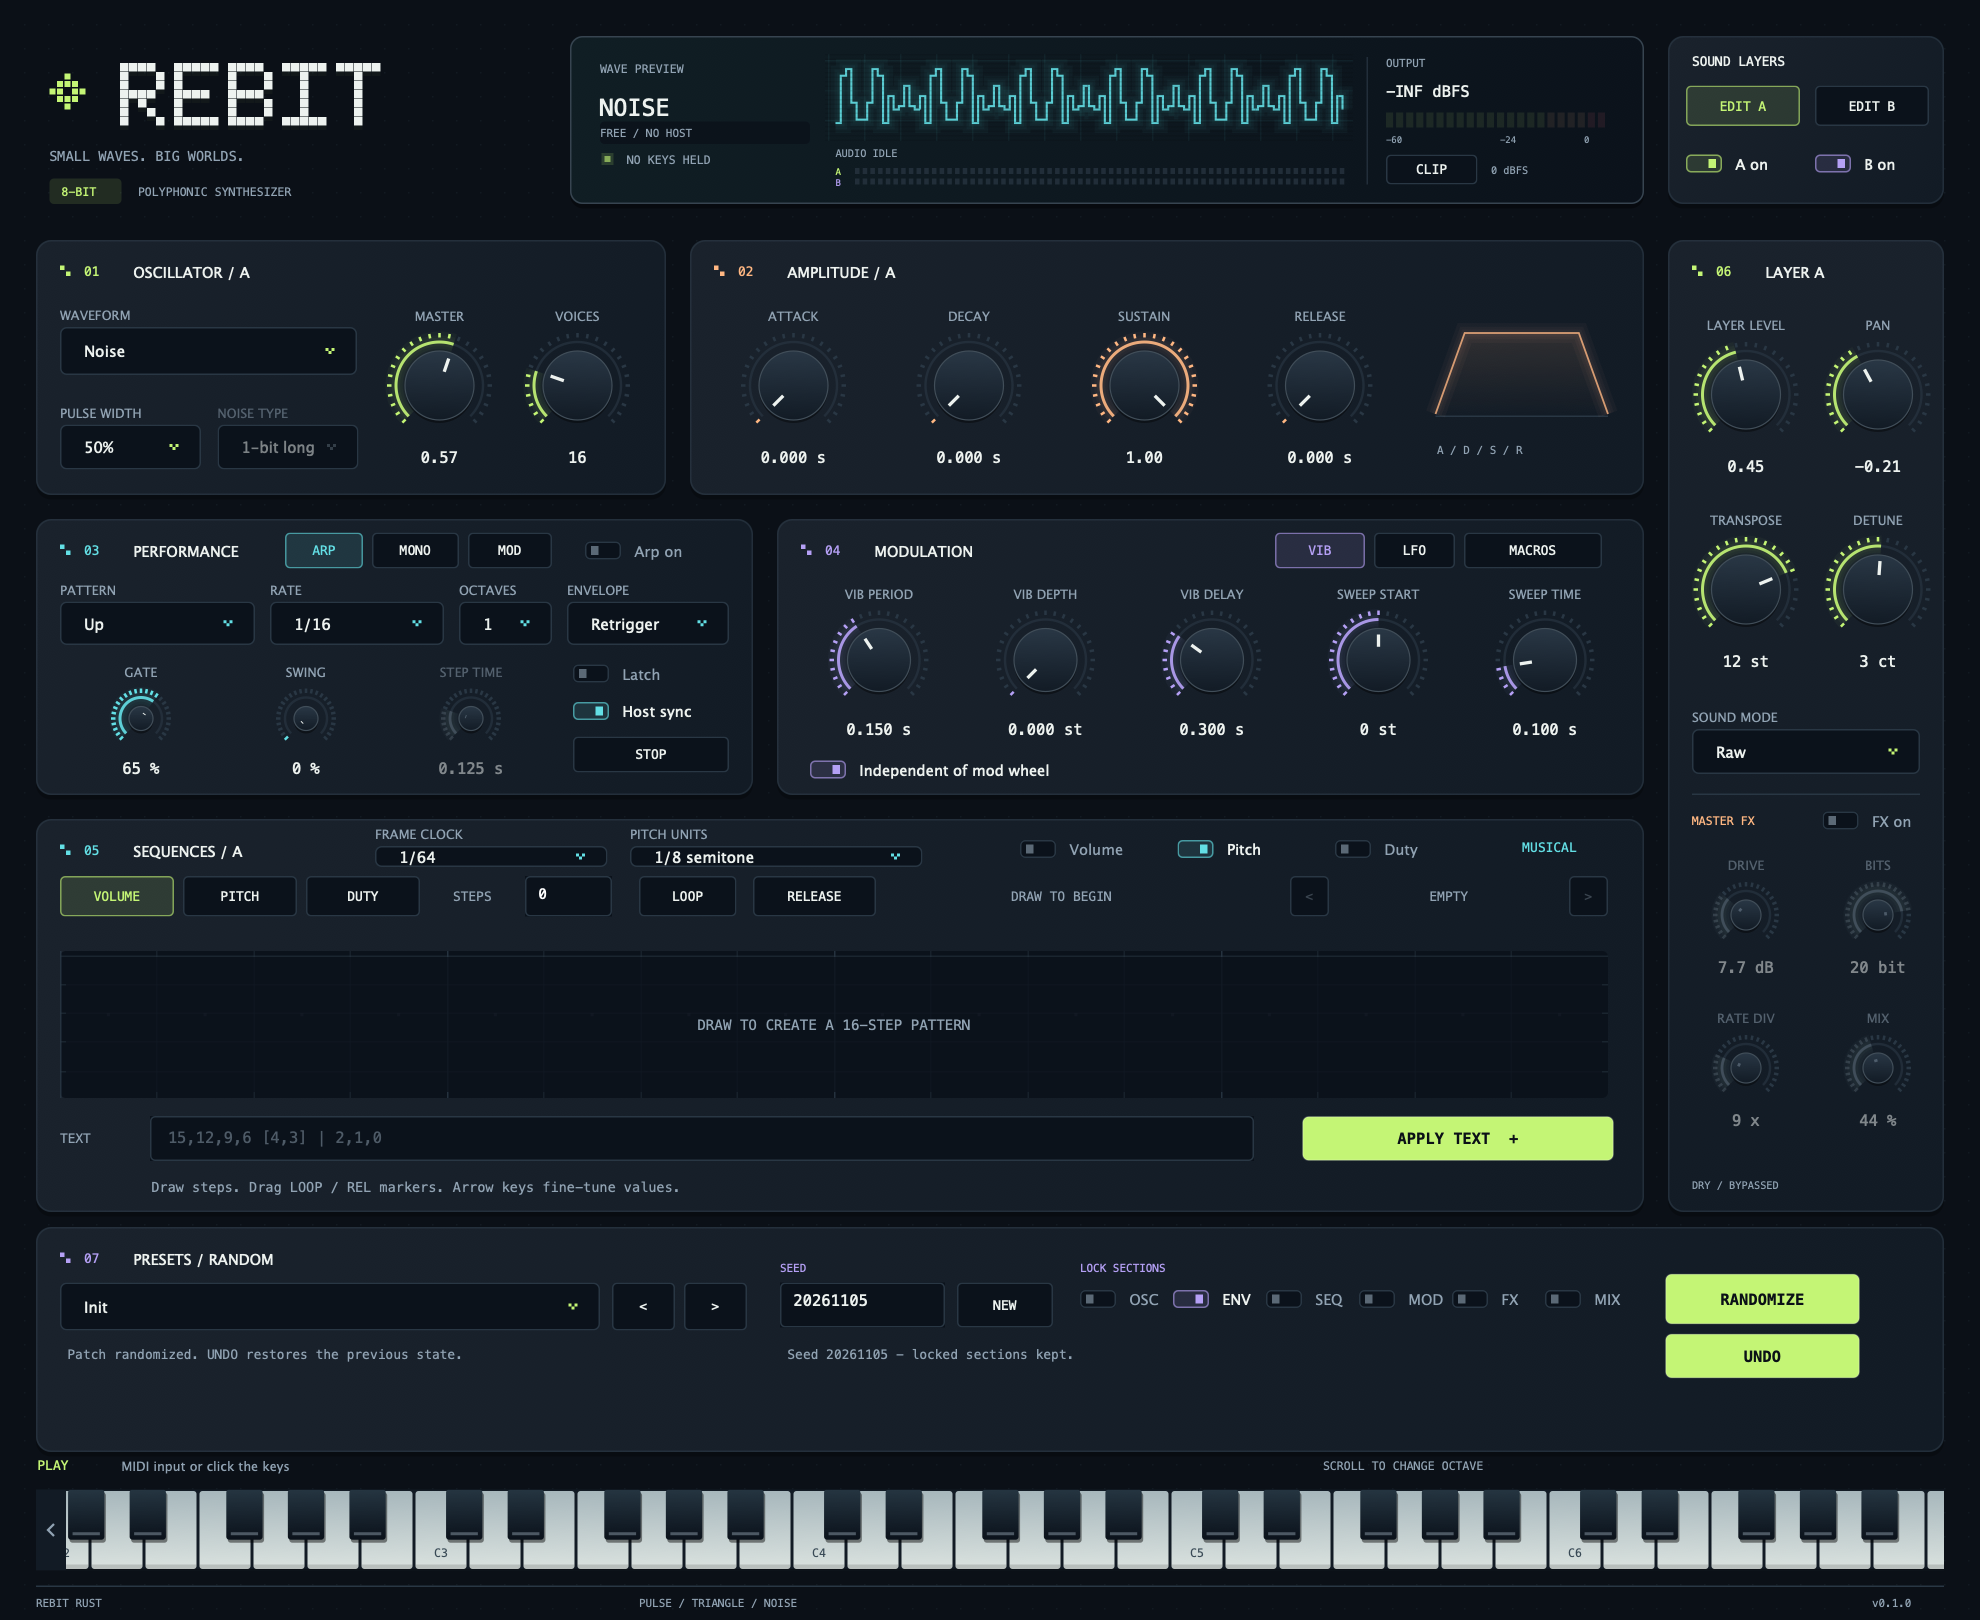
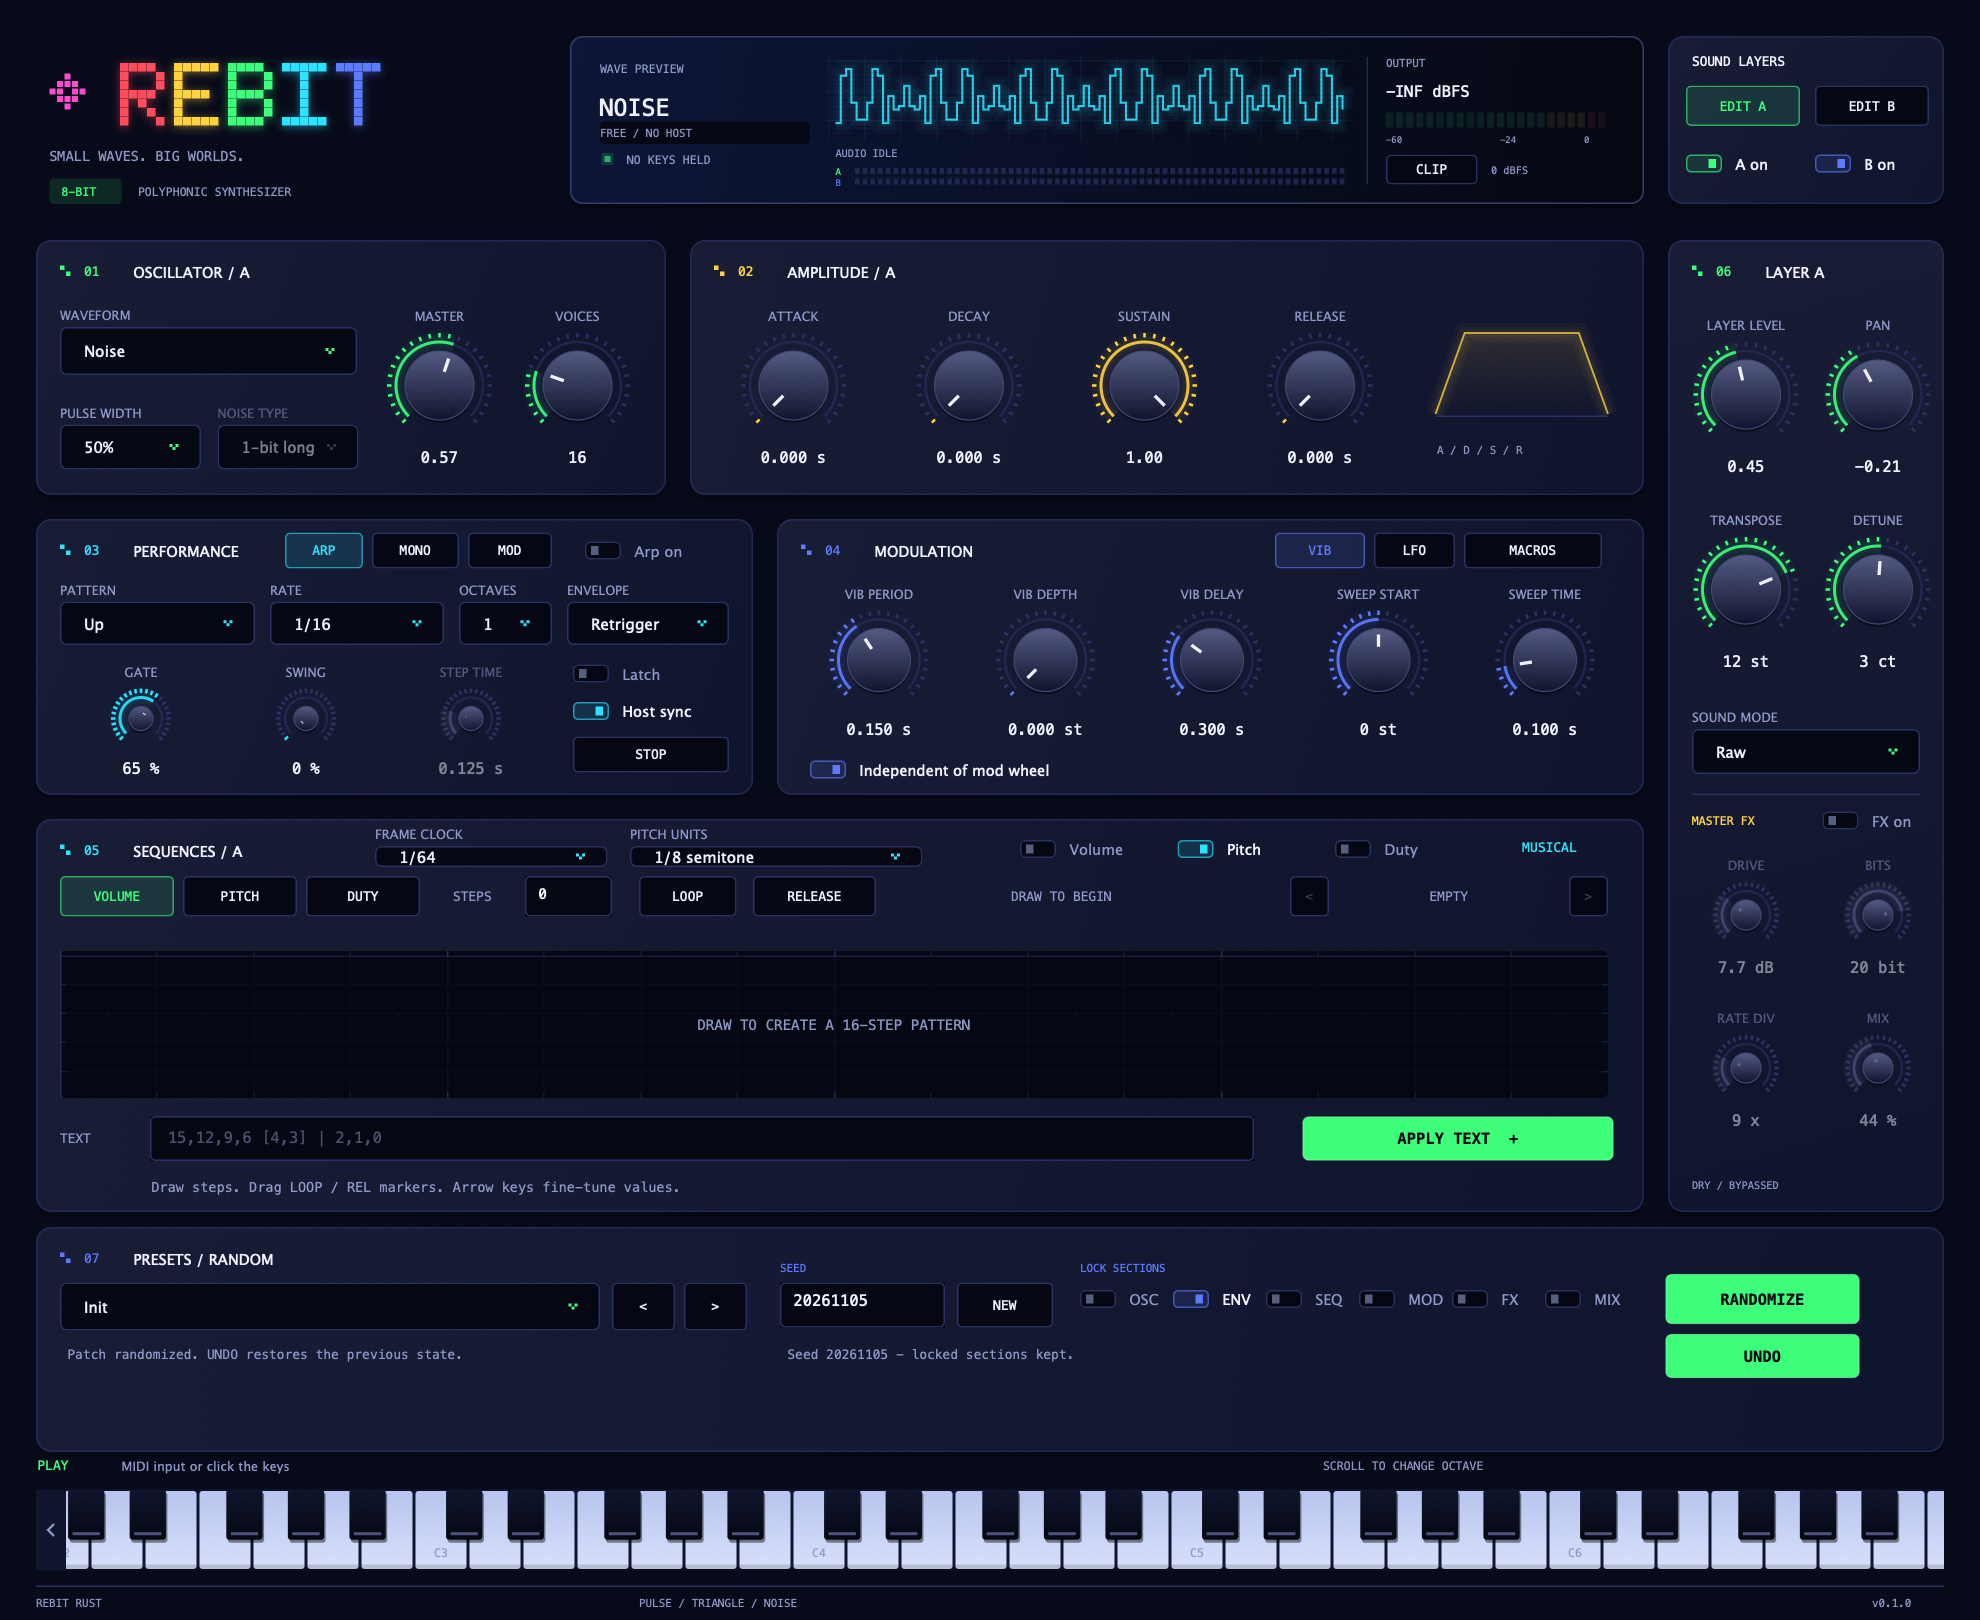
Update preview images and modify color scheme in PluginEditor and SequenceCanvas for improved visual consistency

diff --git a/native/PluginEditor.cpp b/native/PluginEditor.cpp
@@ -4,10 +4,11 @@
 
 namespace
 {
-const juce::Colour background { 0xff0b1017 }, panel { 0xff121b25 }, inset { 0xff0b121b };
-const juce::Colour ink { 0xffedf2ef }, muted { 0xff91a3b3 }, mint { 0xffc4f575 };
-const juce::Colour cyan { 0xff63dfe5 }, violet { 0xffb5a0f5 }, amber { 0xffffb782 };
-const juce::Colour line { 0xff293744 };
+const juce::Colour background { 0xff070a19 }, panel { 0xff10152e }, inset { 0xff050812 };
+const juce::Colour ink { 0xfff0f3ff }, muted { 0xff8e99c8 }, mint { 0xff3dff7a };
+const juce::Colour cyan { 0xff2ce4ff }, violet { 0xff5b7cff }, amber { 0xffffd23f };
+const juce::Colour red { 0xffff4d5e }, magenta { 0xffff4dd2 };
+const juce::Colour line { 0xff2a3163 };
 constexpr float pi = juce::MathConstants<float>::pi;
 constexpr int accentColourId = 0x234567;
 
@@ -65,17 +66,19 @@ void pixelLogo (juce::Graphics& g, float x, float y, float cell)
         "11111001000010000100001000010011111", // I
         "11111001000010000100001000010000100"  // T
     };
-    juce::Path mark;
+    const juce::Colour colours[] = { red, amber, mint, cyan, violet };
     for (int c = 0; c < 5; ++c)
+    {
+        juce::Path mark;
         for (int row = 0; row < 7; ++row)
             for (int col = 0; col < 5; ++col)
                 if (glyphs[c][row * 5 + col] == '1')
                     mark.addRectangle (x + (float) (c * 6 + col) * cell,
                                        y + (float) row * cell, cell - 0.35f, cell - 0.35f);
-    g.setColour (mint.withAlpha (0.035f));
-    g.fillPath (mark, juce::AffineTransform::translation (0, 3));
-    g.setColour (ink);
-    g.fillPath (mark);
+        juce::DropShadow (colours[c].withAlpha (0.5f), 6, { 0, 1 }).drawForPath (g, mark);
+        g.setColour (colours[c]);
+        g.fillPath (mark);
+    }
 }
 void pixelSpark (juce::Graphics& g, int x, int y, juce::Colour colour)
 {
@@ -141,8 +144,8 @@ public:
         const float body = radius - 8;
         g.setColour (juce::Colours::black.withAlpha (0.4f));
         g.fillEllipse (cx - body, cy - body + 2, body * 2, body * 2);
-        g.setGradientFill (juce::ColourGradient (juce::Colour (0xff293745), cx, cy - body,
-                                                juce::Colour (0xff121b25), cx, cy + body, false));
+        g.setGradientFill (juce::ColourGradient (line.brighter (0.25f), cx, cy - body,
+                                                panel, cx, cy + body, false));
         g.fillEllipse (cx - body, cy - body, body * 2, body * 2);
         g.setColour (line.brighter (0.13f));
         g.drawEllipse (cx - body, cy - body, body * 2, body * 2, 0.8f);
@@ -249,14 +252,14 @@ struct RebitEditor::Keyboard final : public juce::MidiKeyboardComponent
                         bool down, bool over, juce::Colour, juce::Colour) override
     {
         auto r = area.reduced (1, 1);
-        g.setGradientFill (juce::ColourGradient (down ? mint : over ? juce::Colour (0xffe0e9e7) : juce::Colour (0xffa7b7bc),
-                                                r.getTopLeft(), down ? mint.darker (0.15f) : juce::Colour (0xffdae2df), r.getBottomLeft(), false));
+        g.setGradientFill (juce::ColourGradient (down ? mint : over ? juce::Colour (0xffeef2ff) : juce::Colour (0xffb8c4ee),
+                                                r.getTopLeft(), down ? mint.darker (0.15f) : juce::Colour (0xffd8e0fb), r.getBottomLeft(), false));
         g.fillRoundedRectangle (r, 2);
         g.setColour (juce::Colours::black.withAlpha (0.15f));
         g.fillRect (r.removeFromBottom (3));
         if (note % 12 == 0)
         {
-            g.setColour (juce::Colour (0xff384955)); g.setFont (type (9, true));
+            g.setColour (muted); g.setFont (type (9, true));
             g.drawText (juce::MidiMessage::getMidiNoteName (note, true, true, 3), area.toNearestInt().withTrimmedTop (30), juce::Justification::centred);
         }
     }
@@ -266,7 +269,7 @@ struct RebitEditor::Keyboard final : public juce::MidiKeyboardComponent
         auto r = area.reduced (0.5f, 0);
         g.setColour (juce::Colours::black.withAlpha (0.45f));
         g.fillRoundedRectangle (r.translated (1, 2), 2);
-        g.setGradientFill (juce::ColourGradient (down ? cyan.darker (0.35f) : over ? line.brighter (0.2f) : juce::Colour (0xff253541),
+        g.setGradientFill (juce::ColourGradient (down ? cyan.darker (0.35f) : over ? line.brighter (0.2f) : panel,
                                                 r.getTopLeft(), down ? cyan : inset, r.getBottomLeft(), false));
         g.fillRoundedRectangle (r, 2);
         g.setColour (down ? cyan : line.brighter (0.2f));
@@ -402,10 +405,10 @@ struct RebitEditor::PlaybackDisplay final : juce::Component, juce::SettableToolt
     uint32_t revision=0;
     double lastAudio=0.;
     bool idle=true;
-    const juce::Colour red {0xffff727e};
+    const juce::Colour red {0xffff4d5e};
     explicit PlaybackDisplay(RebitProcessor& p) : processor(p) {
         setName("Output and voice activity");
-        setTooltip("Actual output sample peaks, in dBFS. Mint tiles are held/pedalled voices; amber tiles are releases. +FADE counts brief voice-removal continuations. The waveform is a parameter preview.");
+        setTooltip("Actual output sample peaks, in dBFS. Green and blue tiles are held/pedalled voices; yellow tiles are releases. +FADE counts brief voice-removal continuations. The waveform is a parameter preview.");
         clip.setName("Clear output clipping");clip.setTooltip("Latched when output reaches 0 dBFS. Click to clear; further clipping lights it again. Lower LEVEL or reduce stacked voices. Output is not limited.");
         clip.getProperties().set("sequenceSmall",true);clip.setColour(accentColourId,red);
         addAndMakeVisible(clip);clip.onClick=[this]{processor.clearClip();refresh();};
@@ -818,7 +821,7 @@ void RebitEditor::paint (juce::Graphics& g)
     g.setColour (line.withAlpha (0.25f));
     for (int x = 16; x < getWidth(); x += 16)
         for (int y = 16; y < getHeight(); y += 16) g.fillRect (x, y, 1, 1);
-    pixelSpark (g, 33, 49, mint);
+    pixelSpark (g, 33, 49, magenta);
     pixelLogo (g, 80, 42, 6);
     caption (g, "SMALL WAVES. BIG WORLDS.", { 33, 95, 310, 18 }, muted, 10.5f, true);
     g.setColour (mint.withAlpha (0.12f)); g.fillRoundedRectangle (33, 119, 48, 17, 3);
@@ -827,7 +830,7 @@ void RebitEditor::paint (juce::Graphics& g)
 
     const juce::Rectangle<float> screen (380, 24, 716, 112);
     g.setColour (juce::Colours::black.withAlpha (0.35f)); g.fillRoundedRectangle (screen.translated (0, 3), 9);
-    g.setGradientFill (juce::ColourGradient (juce::Colour (0xff101e24), screen.getTopLeft(), inset, screen.getBottomRight(), false));
+    g.setGradientFill (juce::ColourGradient (juce::Colour (0xff0d1638), screen.getTopLeft(), inset, screen.getBottomRight(), false));
     g.fillRoundedRectangle (screen, 8);
     g.setColour (line.brighter (0.07f)); g.drawRoundedRectangle (screen.reduced (0.5f), 8, 1);
     caption (g, "WAVE PREVIEW", { 400, 37, 150, 17 }, muted, 9, true);

diff --git a/native/SequenceCanvas.cpp b/native/SequenceCanvas.cpp
@@ -3,7 +3,7 @@
 
 namespace {
 constexpr int pageSize=16, maxFrames=65534, accentId=0x234567;
-const juce::Colour ink{0xffedf2ef}, muted{0xff91a3b3}, line{0xff293744}, inset{0xff0b121b};
+const juce::Colour ink{0xfff0f3ff}, muted{0xff8e99c8}, line{0xff2a3163}, inset{0xff050812};
 juce::Font mono(float size) { return juce::Font(juce::FontOptions(juce::Font::getDefaultMonospacedFontName(),size,juce::Font::plain)); }
 }
 SequenceCanvas::SequenceCanvas(RebitProcessor& p):processor(p) {
@@ -46,7 +46,7 @@ SequenceCanvas::SequenceCanvas(RebitProcessor& p):processor(p) {
     refresh();startTimerHz(30);
 }
 SequenceCanvas::~SequenceCanvas(){stopTimer();}
-juce::Colour SequenceCanvas::accent() const {return selectedLane==0?juce::Colour(0xffc4f575):selectedLane==1?juce::Colour(0xff63dfe5):juce::Colour(0xffb5a0f5);}
+juce::Colour SequenceCanvas::accent() const {return selectedLane==0?juce::Colour(0xff3dff7a):selectedLane==1?juce::Colour(0xff2ce4ff):juce::Colour(0xff5b7cff);}
 int SequenceCanvas::minValue() const {return selectedLane==1?-pitchRange:0;}
 int SequenceCanvas::maxValue() const {return selectedLane==0?15:selectedLane==1?juce::jmin(63,pitchRange):2;}
 juce::Rectangle<float> SequenceCanvas::grid() const {return {0,50,(float)getWidth(),(float)getHeight()-50};}
@@ -215,5 +215,5 @@ void SequenceCanvas::paint(juce::Graphics& g){
         g.setColour(c.withAlpha(.5f));g.drawVerticalLine((int)stepX(step),48,bounds.getBottom());
     };
     if(data.loopStart>=0)marker(data.loopStart,"LOOP",colour);
-    if(data.releaseStart>=0)marker(boundary,"REL",juce::Colour(0xffffb782));
+    if(data.releaseStart>=0)marker(boundary,"REL",juce::Colour(0xffffd23f));
 }
